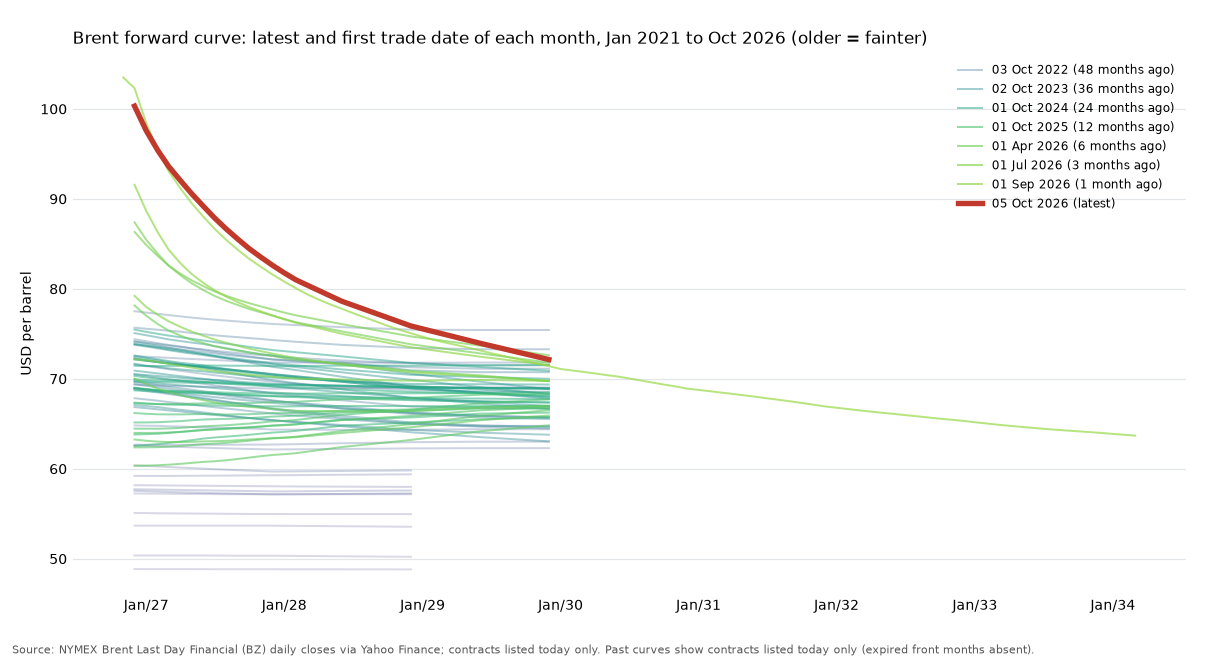
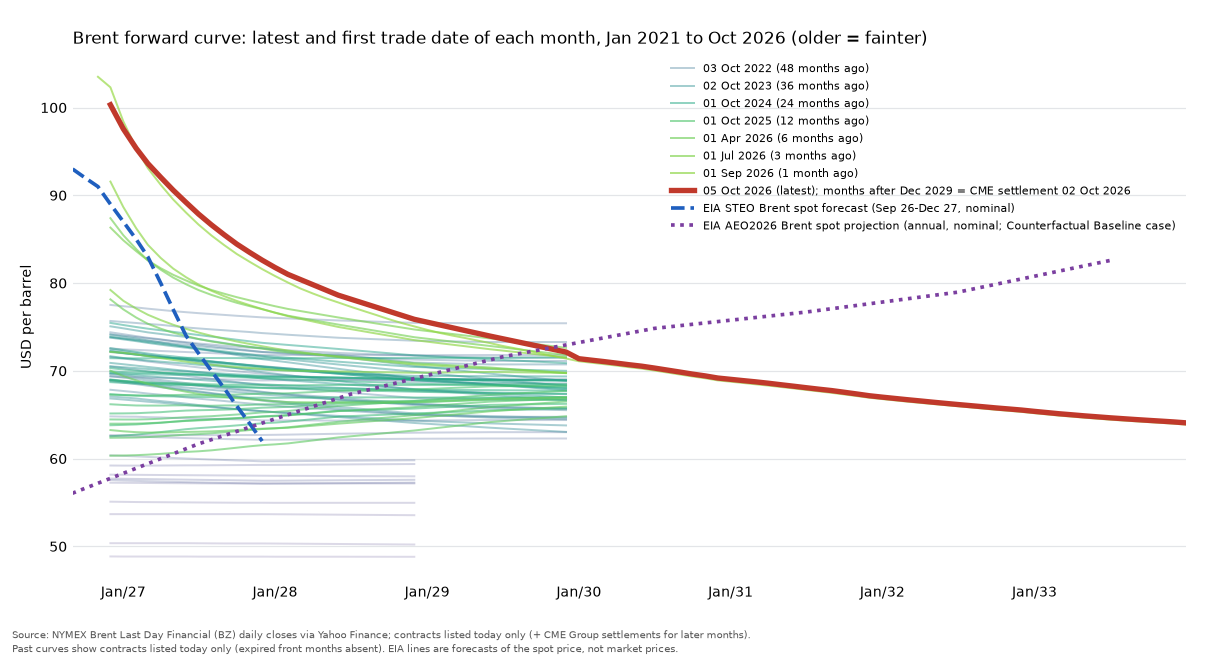
Brent forward curve static chart: x-axis to Dec 2033 (CME settlements beyond Dec 2029), EIA STEO and AEO forecast lines dashed
Claude-Session: https://claude.ai/code/session_017JZ6NtiEGTPcCx8fG8R1Sb

diff --git a/americas/BRENT_FORWARD_CURVE_GIF.py b/americas/BRENT_FORWARD_CURVE_GIF.py
@@ -100,14 +100,40 @@ def main():
         ax.plot(r.index, r.values, color=cmap(0.15 + 0.7 * (1 - age)), lw=1.3, alpha=0.18 + 0.5 * (1 - age),
                 label=f"{d:%d %b %Y} ({lab[d]})" if d in lab else None)
     r = cur.loc[last].dropna()
-    ax.plot(r.index, r.values, color="#C0392B", lw=3.5, label=f"{last:%d %b %Y} (latest)")
+    # months beyond the last Yahoo-listed contract come from CME's own settlements (latest settlement date)
+    cme = pd.read_excel(XLSX, sheet_name="CME settlements", index_col=0)
+    cme.index = pd.to_datetime(cme.index)
+    cme.columns = pd.to_datetime([f"{c}-01" for c in cme.columns])
+    cme_last = cme.index.max()
+    ext = cme.loc[cme_last].dropna()
+    ext = ext[ext.index > r.index.max()]
+    lat = pd.Series(list(r.values) + list(ext.values), index=pd.DatetimeIndex(list(r.index) + list(ext.index)))
+    lab_latest = f"{last:%d %b %Y} (latest)"
+    if len(ext):
+        lab_latest += f"; months after {r.index.max():%b %Y} = CME settlement {cme_last:%d %b %Y}"
+    ax.plot(lat.index, lat.values, color="#C0392B", lw=3.5, label=lab_latest)
+    # EIA forecasts: spot-price forecasts, NOT futures; drawn dashed, separate from the market curves
+    eia = pd.read_excel(XLSX, sheet_name="EIA forecast")
+    eia["date"] = pd.to_datetime(eia["date"])
+    steo = eia[eia["type"].str.contains("STEO monthly forecast")].sort_values("date")
+    aeo = eia[eia["type"].str.contains("AEO annual projection, nominal")].sort_values("date")
+    XEND = pd.Timestamp("2033-12-31")
+    aeo = aeo[(aeo["date"] >= pd.Timestamp("2026-07-01")) & (aeo["date"] <= XEND)]
+    if len(steo):
+        ax.plot(steo["date"], steo["value"], color="#1F5FBF", lw=2.4, ls="--",
+                label=f"EIA STEO Brent spot forecast ({steo['date'].min():%b %y}-{steo['date'].max():%b %y}, nominal)")
+    if len(aeo):
+        vint = str(aeo["release_vintage"].iloc[0])
+        ax.plot(aeo["date"], aeo["value"], color="#7B3FA0", lw=2.4, ls=(0, (1, 1.5)),
+                label=f"EIA {vint} Brent spot projection (annual, nominal; {str(aeo['scenario'].iloc[0]).split(':')[-1].strip()})")
+    ax.set_xlim(pd.Timestamp("2026-09-01"), XEND)
     ax.xaxis.set_major_formatter(mdates.DateFormatter("%b/%y"))
     ax.set_ylabel("USD per barrel", fontsize=9)
-    ax.legend(frameon=False, fontsize=8, loc="upper right")
+    ax.legend(frameon=False, fontsize=7.5, loc="upper right")
     ax.set_title(f"Brent forward curve: latest and first trade date of each month, {firsts[0]:%b %Y} to {last:%b %Y} (older = fainter)",
                  loc="left", fontsize=11)
-    fig.text(0.01, 0.01, SRC + ". Past curves show contracts listed today only (expired front months absent).", fontsize=7, color="#555")
-    fig.subplots_adjust(left=0.06, right=0.98, top=0.92, bottom=0.1)
+    fig.text(0.01, 0.012, SRC + " (+ CME Group settlements for later months).\nPast curves show contracts listed today only (expired front months absent). EIA lines are forecasts of the spot price, not market prices.", fontsize=6.5, color="#555", linespacing=1.4)
+    fig.subplots_adjust(left=0.06, right=0.98, top=0.92, bottom=0.12)
     fig.savefig(os.path.join(OUTDIR, "brent_forward_curve.png"))
     plt.close(fig)
     # PNG 2: calendar spreads

diff --git a/output/Python Scripts/BRENT_FORWARD_CURVE_GIF.py b/output/Python Scripts/BRENT_FORWARD_CURVE_GIF.py
@@ -100,14 +100,40 @@ def main():
         ax.plot(r.index, r.values, color=cmap(0.15 + 0.7 * (1 - age)), lw=1.3, alpha=0.18 + 0.5 * (1 - age),
                 label=f"{d:%d %b %Y} ({lab[d]})" if d in lab else None)
     r = cur.loc[last].dropna()
-    ax.plot(r.index, r.values, color="#C0392B", lw=3.5, label=f"{last:%d %b %Y} (latest)")
+    # months beyond the last Yahoo-listed contract come from CME's own settlements (latest settlement date)
+    cme = pd.read_excel(XLSX, sheet_name="CME settlements", index_col=0)
+    cme.index = pd.to_datetime(cme.index)
+    cme.columns = pd.to_datetime([f"{c}-01" for c in cme.columns])
+    cme_last = cme.index.max()
+    ext = cme.loc[cme_last].dropna()
+    ext = ext[ext.index > r.index.max()]
+    lat = pd.Series(list(r.values) + list(ext.values), index=pd.DatetimeIndex(list(r.index) + list(ext.index)))
+    lab_latest = f"{last:%d %b %Y} (latest)"
+    if len(ext):
+        lab_latest += f"; months after {r.index.max():%b %Y} = CME settlement {cme_last:%d %b %Y}"
+    ax.plot(lat.index, lat.values, color="#C0392B", lw=3.5, label=lab_latest)
+    # EIA forecasts: spot-price forecasts, NOT futures; drawn dashed, separate from the market curves
+    eia = pd.read_excel(XLSX, sheet_name="EIA forecast")
+    eia["date"] = pd.to_datetime(eia["date"])
+    steo = eia[eia["type"].str.contains("STEO monthly forecast")].sort_values("date")
+    aeo = eia[eia["type"].str.contains("AEO annual projection, nominal")].sort_values("date")
+    XEND = pd.Timestamp("2033-12-31")
+    aeo = aeo[(aeo["date"] >= pd.Timestamp("2026-07-01")) & (aeo["date"] <= XEND)]
+    if len(steo):
+        ax.plot(steo["date"], steo["value"], color="#1F5FBF", lw=2.4, ls="--",
+                label=f"EIA STEO Brent spot forecast ({steo['date'].min():%b %y}-{steo['date'].max():%b %y}, nominal)")
+    if len(aeo):
+        vint = str(aeo["release_vintage"].iloc[0])
+        ax.plot(aeo["date"], aeo["value"], color="#7B3FA0", lw=2.4, ls=(0, (1, 1.5)),
+                label=f"EIA {vint} Brent spot projection (annual, nominal; {str(aeo['scenario'].iloc[0]).split(':')[-1].strip()})")
+    ax.set_xlim(pd.Timestamp("2026-09-01"), XEND)
     ax.xaxis.set_major_formatter(mdates.DateFormatter("%b/%y"))
     ax.set_ylabel("USD per barrel", fontsize=9)
-    ax.legend(frameon=False, fontsize=8, loc="upper right")
+    ax.legend(frameon=False, fontsize=7.5, loc="upper right")
     ax.set_title(f"Brent forward curve: latest and first trade date of each month, {firsts[0]:%b %Y} to {last:%b %Y} (older = fainter)",
                  loc="left", fontsize=11)
-    fig.text(0.01, 0.01, SRC + ". Past curves show contracts listed today only (expired front months absent).", fontsize=7, color="#555")
-    fig.subplots_adjust(left=0.06, right=0.98, top=0.92, bottom=0.1)
+    fig.text(0.01, 0.012, SRC + " (+ CME Group settlements for later months).\nPast curves show contracts listed today only (expired front months absent). EIA lines are forecasts of the spot price, not market prices.", fontsize=6.5, color="#555", linespacing=1.4)
+    fig.subplots_adjust(left=0.06, right=0.98, top=0.92, bottom=0.12)
     fig.savefig(os.path.join(OUTDIR, "brent_forward_curve.png"))
     plt.close(fig)
     # PNG 2: calendar spreads
